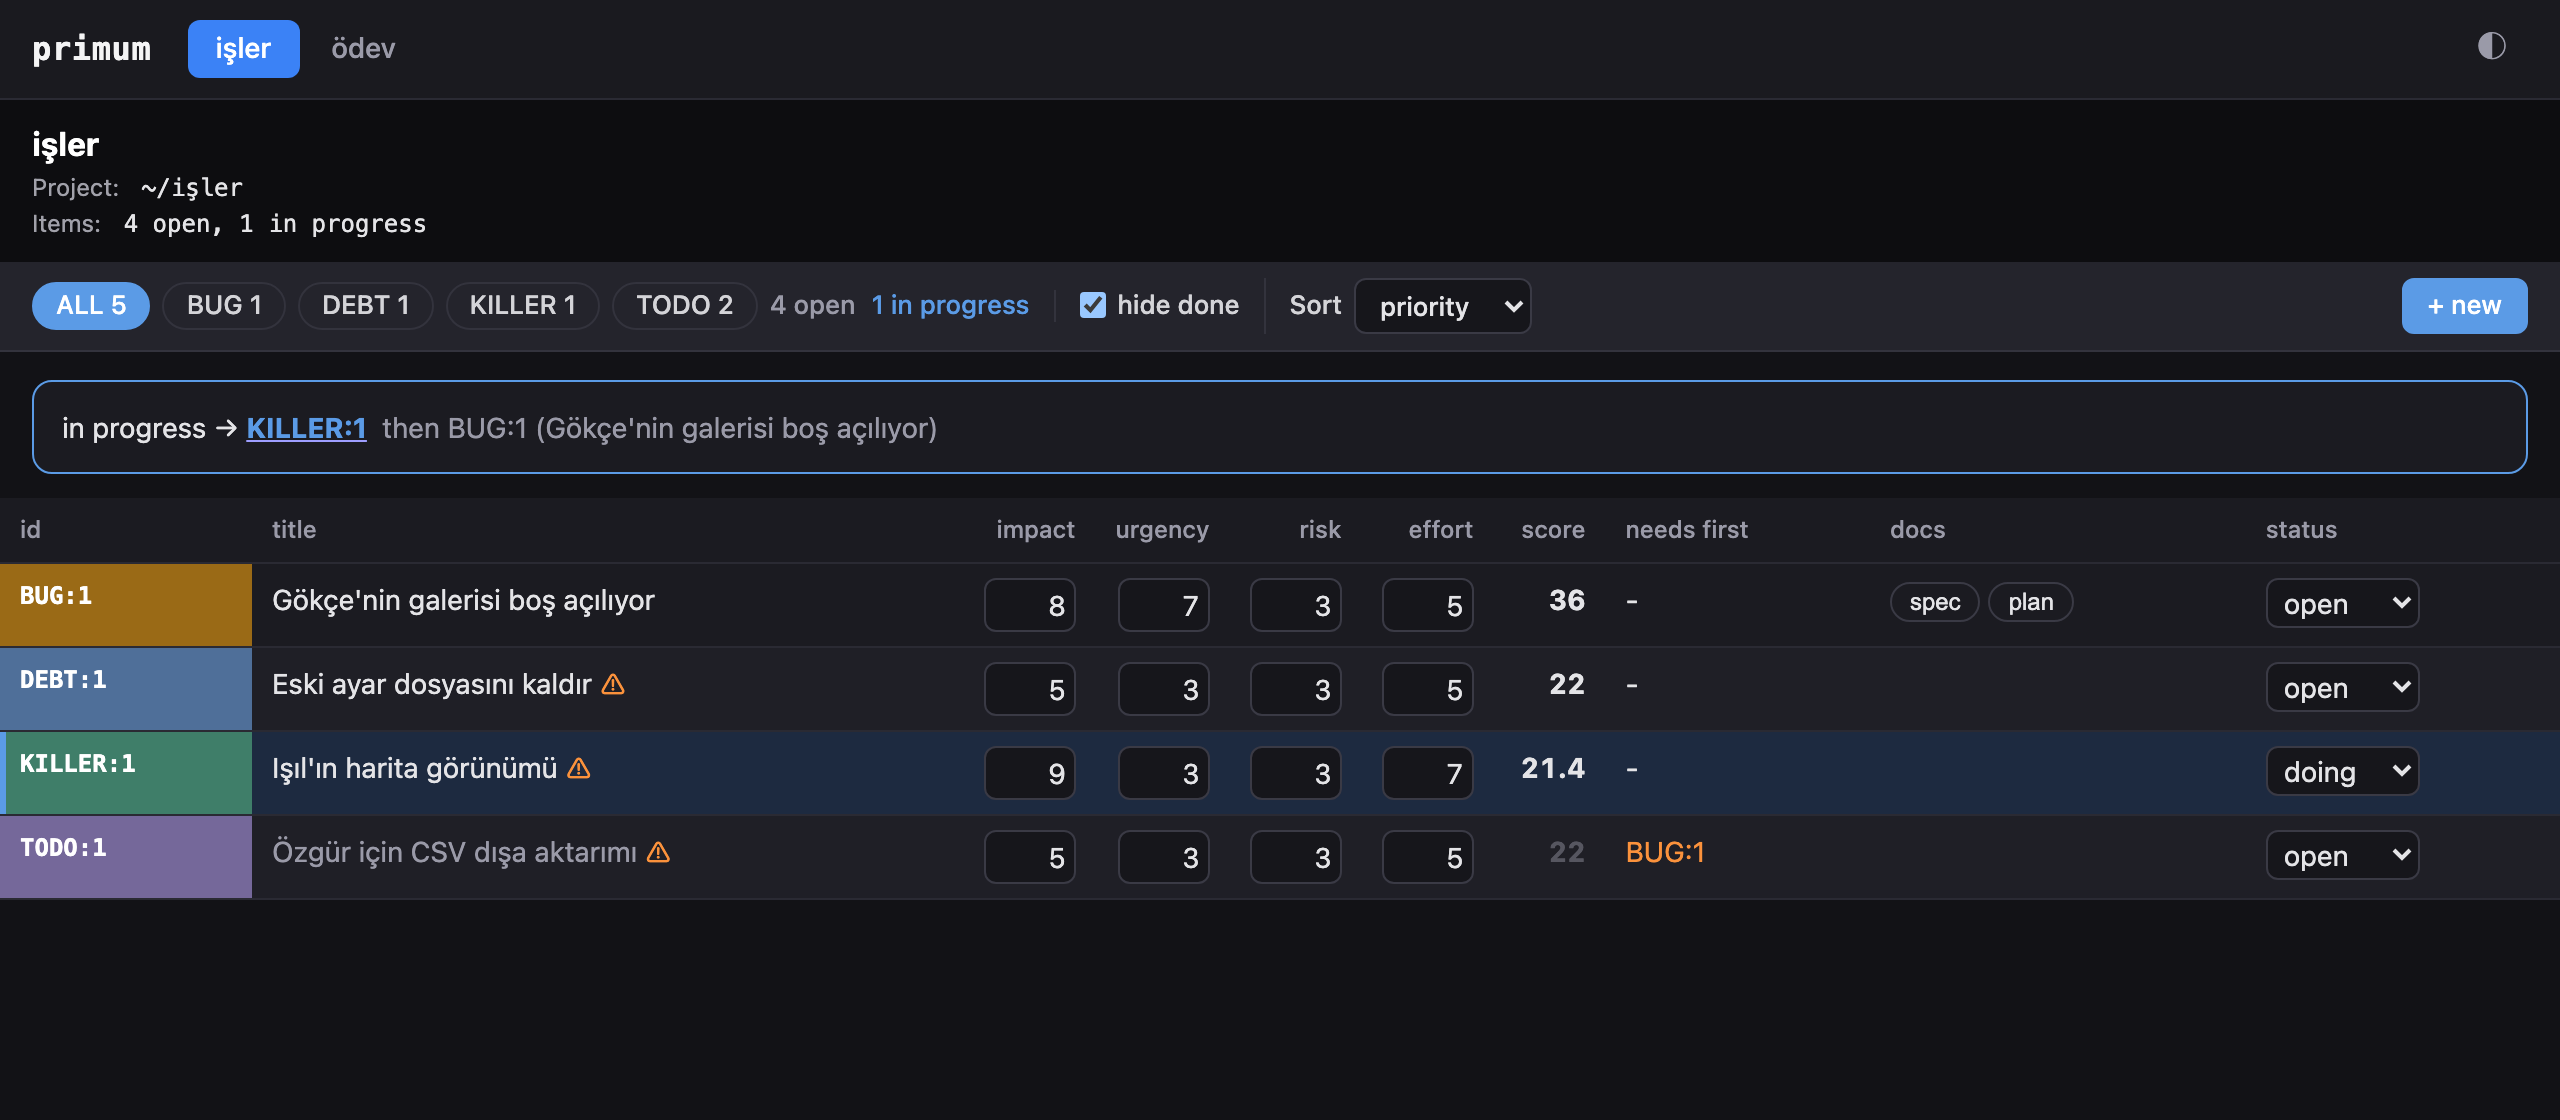
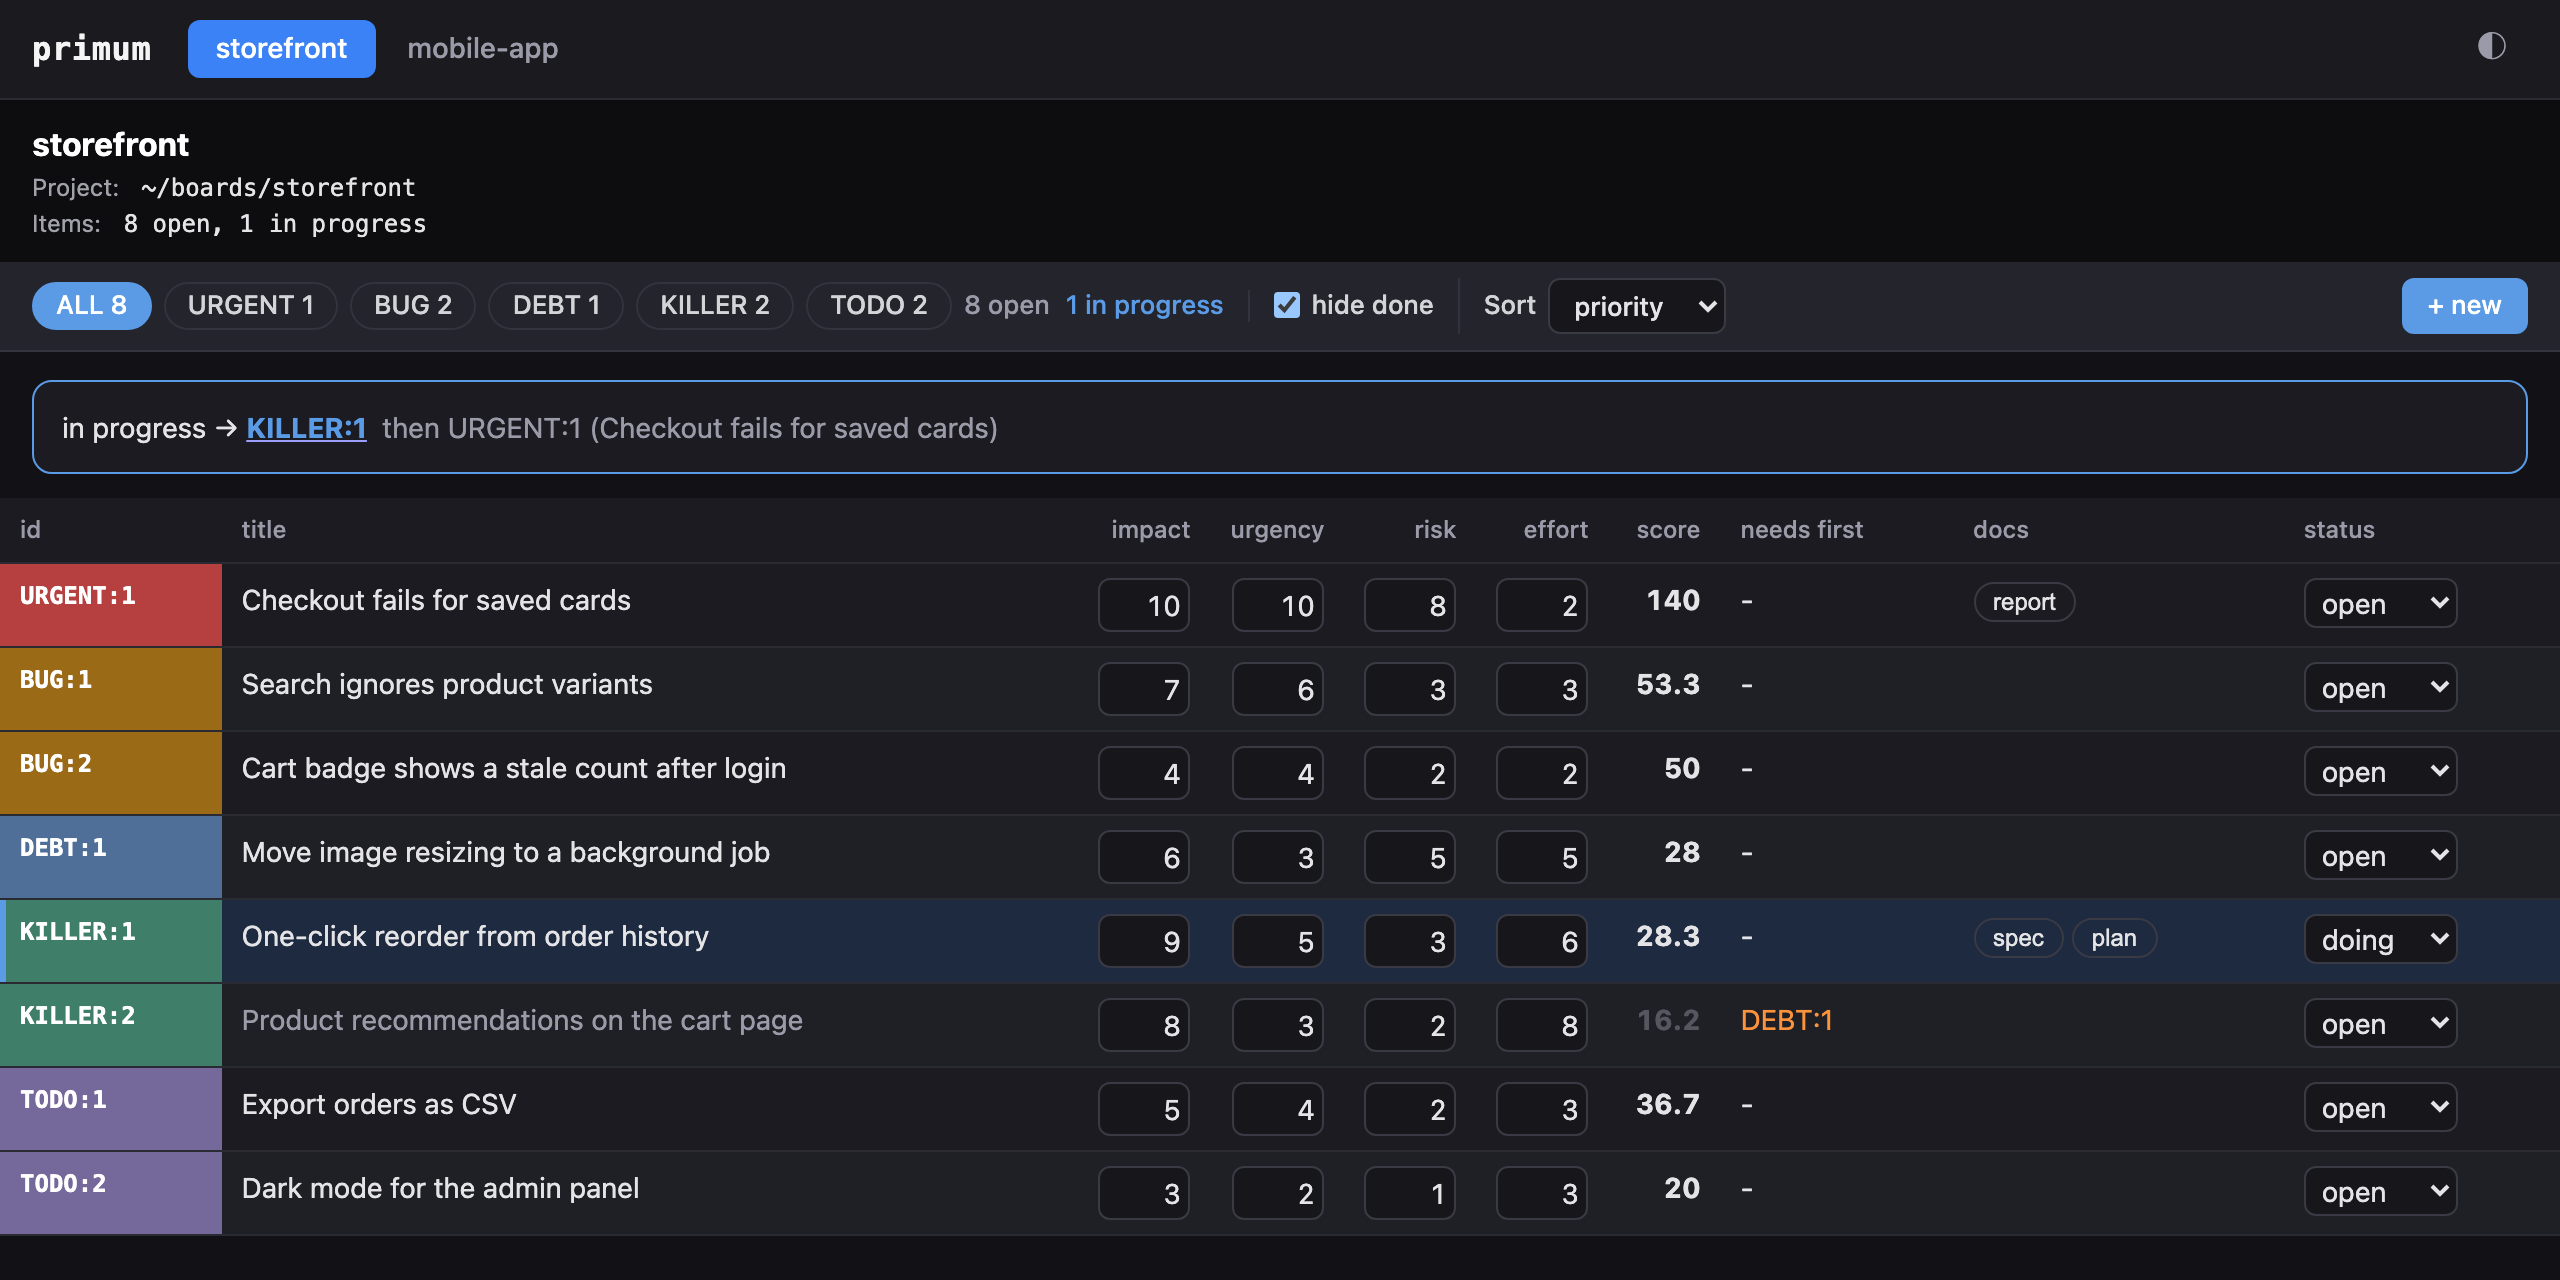
Docs: new board screenshots; neutral names in CLAUDE.md and examples
The screenshots show an English demo board (two projects, every lane, an item in progress, a blocked item, documents). CLAUDE.md asks for non-ASCII letters in fixtures instead of Turkish names, and the docs examples use a neutral name.

diff --git a/CLAUDE.md b/CLAUDE.md
@@ -12,8 +12,9 @@ plain JavaScript). This file is for contributing to primum.
 - **Test first when fixing a bug.** Write the test, run it, watch it fail.
 - **Verify before claiming done.** Run the commands below and read their
   output.
-- **Fixtures** use Turkish names (`Özgür`, `Işıl`, `Gökçe`), never `Alice`
-  and `Bob`.
+- **Fixtures cover non-ASCII text.** Titles, bodies and paths in tests
+  include letters such as `ı`, `ş`, `ğ`, `ü` and `é`, so Unicode handling
+  stays tested. Keep them in neutral titles and words, not personal names.
 - **Every change leaves a project consistent.** A change takes the project
   lock, writes files through a temporary file and a rename, removes closed
   ids from every `needs`, and rewrites `BOARD.md` before it returns.

diff --git a/docs/src/content/docs/commands/note.md b/docs/src/content/docs/commands/note.md
@@ -5,7 +5,7 @@ description: Append a dated note to an item's text.
 
 ```bash
 primum note TODO:87 --file note.md
-echo "Işıl confirmed the CSV columns." | primum note TODO:87 --file -
+echo "Sam confirmed the CSV columns." | primum note TODO:87 --file -
 ```
 
 Appends the note under a heading with today's date (`## 2026-10-14`),

diff --git a/docs/src/content/docs/guides/adding-many-items.md b/docs/src/content/docs/guides/adding-many-items.md
@@ -13,7 +13,7 @@ dir=$(mktemp -d)
 cat > "$dir/csv.md" <<'END'
 ## Why
 
-Işıl wants the open items as CSV for the weekly review.
+Sam wants the open items as CSV for the weekly review.
 END
 
 cat > "$dir/crash.md" <<'END'
